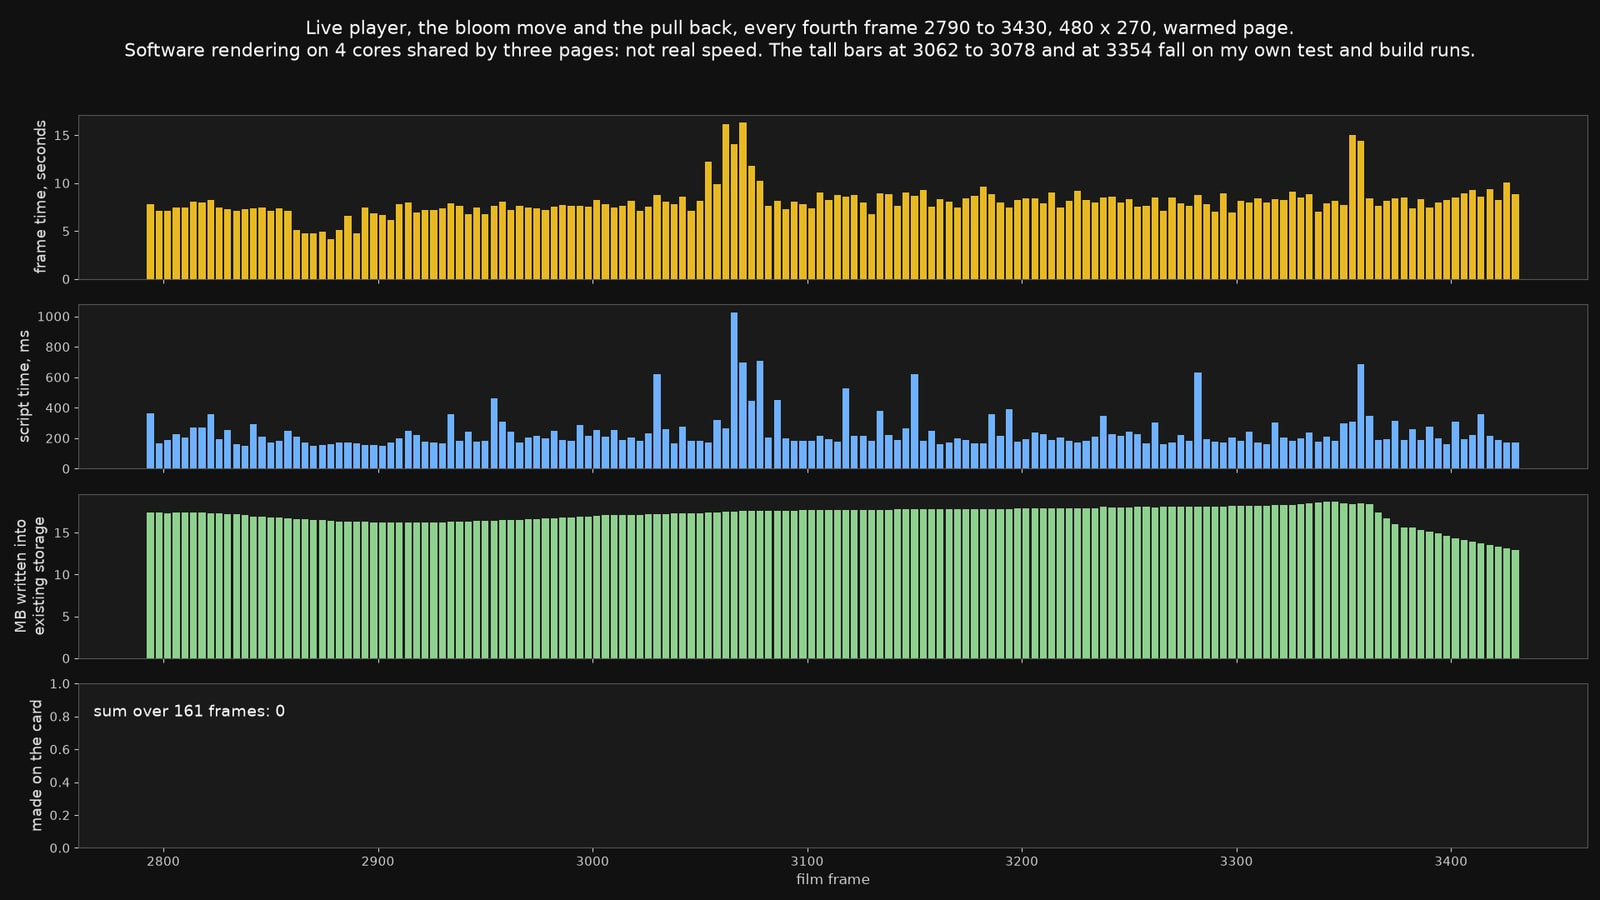
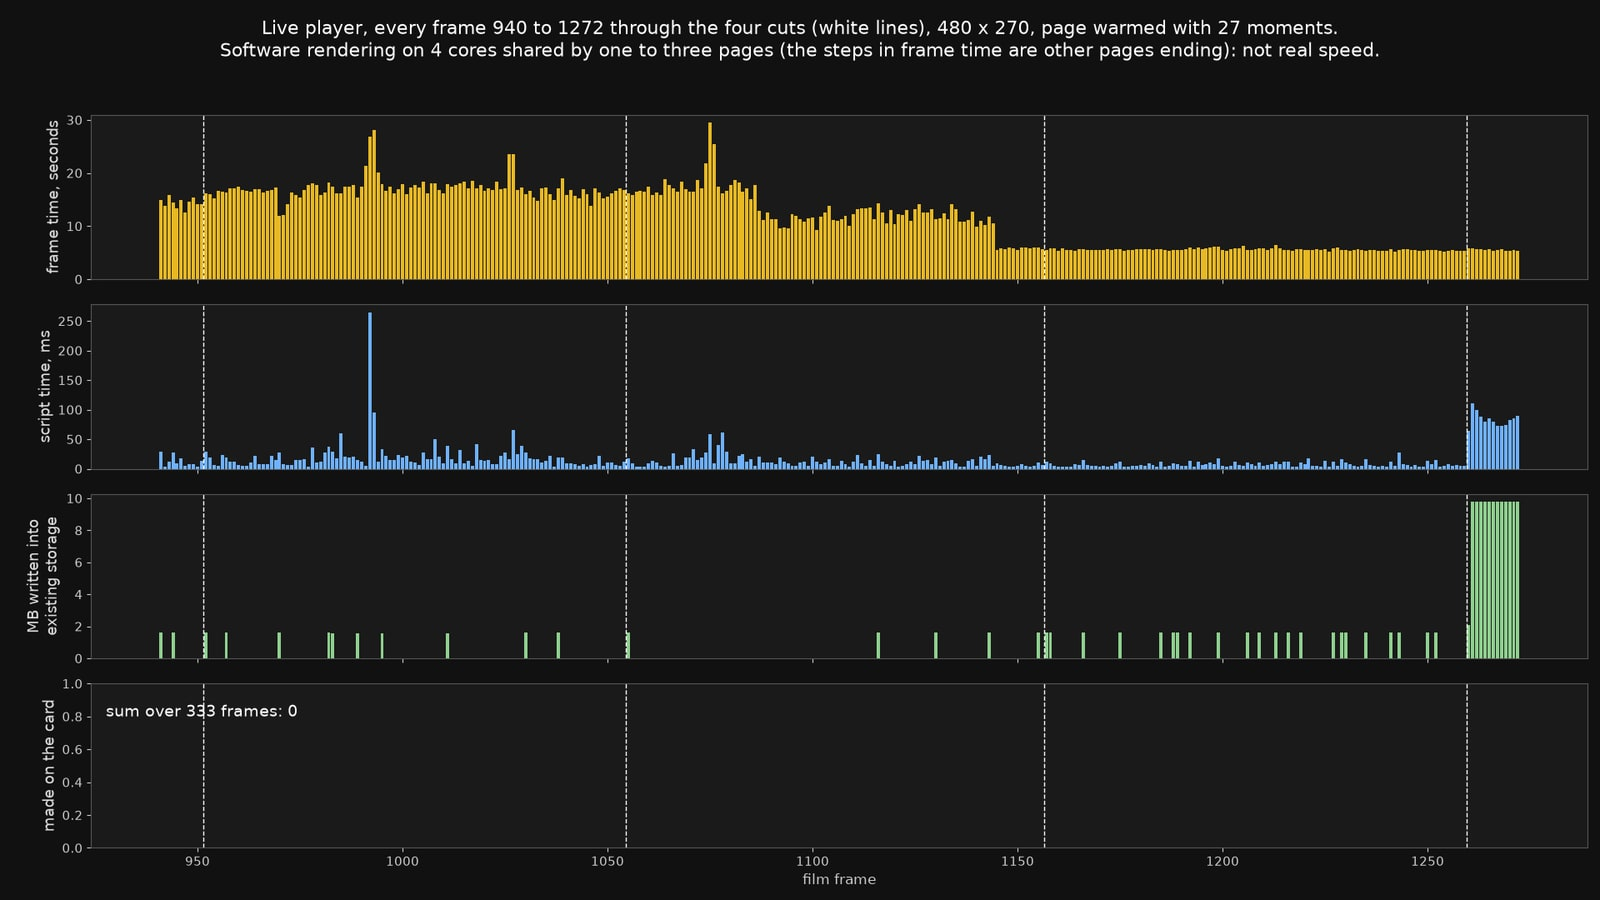
Looks of player, 2026-11-23 09:03 UTC

diff --git a/looks/NOTES.md b/looks/NOTES.md
@@ -1,7 +1,7 @@
 # Looks of player
 
-2026-11-23 08:57 UTC, at commit 02cb1bce of agent/player.
+2026-11-23 09:03 UTC, at commit 02cb1bce of agent/player.
 
-Round 8, live player through the bloom move, every fourth frame, software rendering on shared cores
+Round 8, live player, every frame 940 to 1272 through the four cuts in a warmed page, software rendering on shared cores
 
-- `01-frame-time-script-time-megabytes-written-and-thi.jpg`: Frame time, script time, megabytes written and things made for frames 2790 to 3430 at 480 x 270. Nothing made in 161 frames. 17 MB written a frame. Not real speed.
+- `01-frame-time-script-time-megabytes-written-and-thi.jpg`: Frame time, script time, megabytes written and things made for every frame 940 to 1272 at 480 x 270. Nothing made in 333 frames. The spikes at 992, 1026 and 1075 fall on my own test and build runs. Not real speed.
